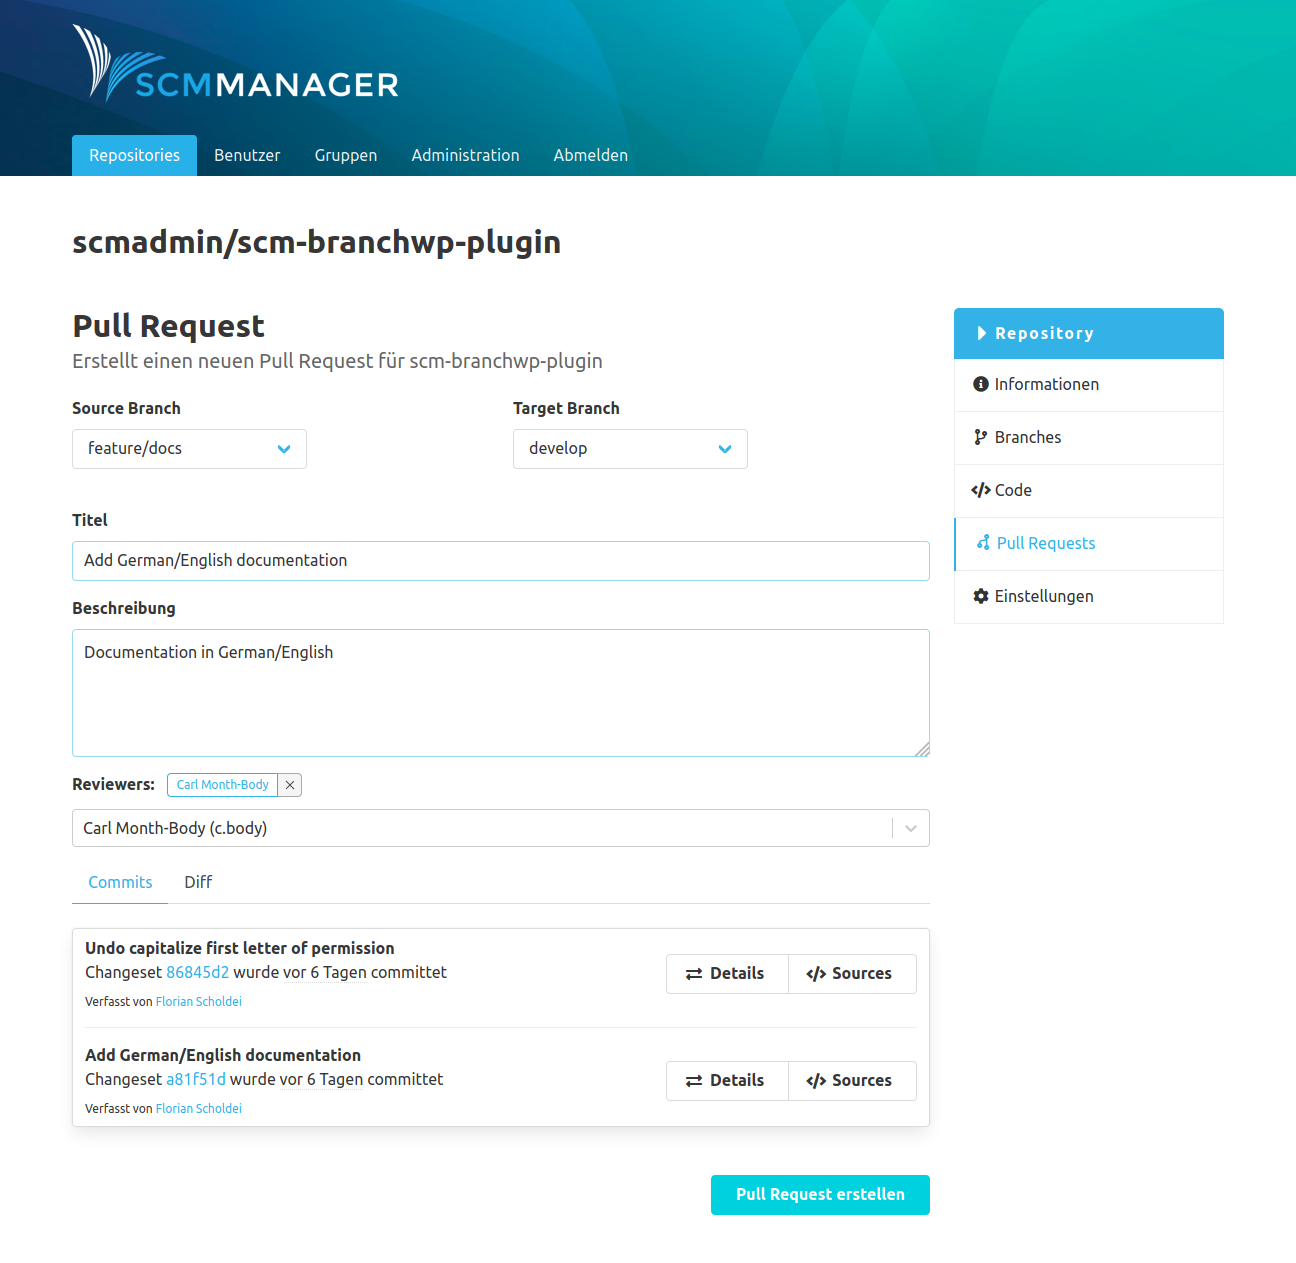
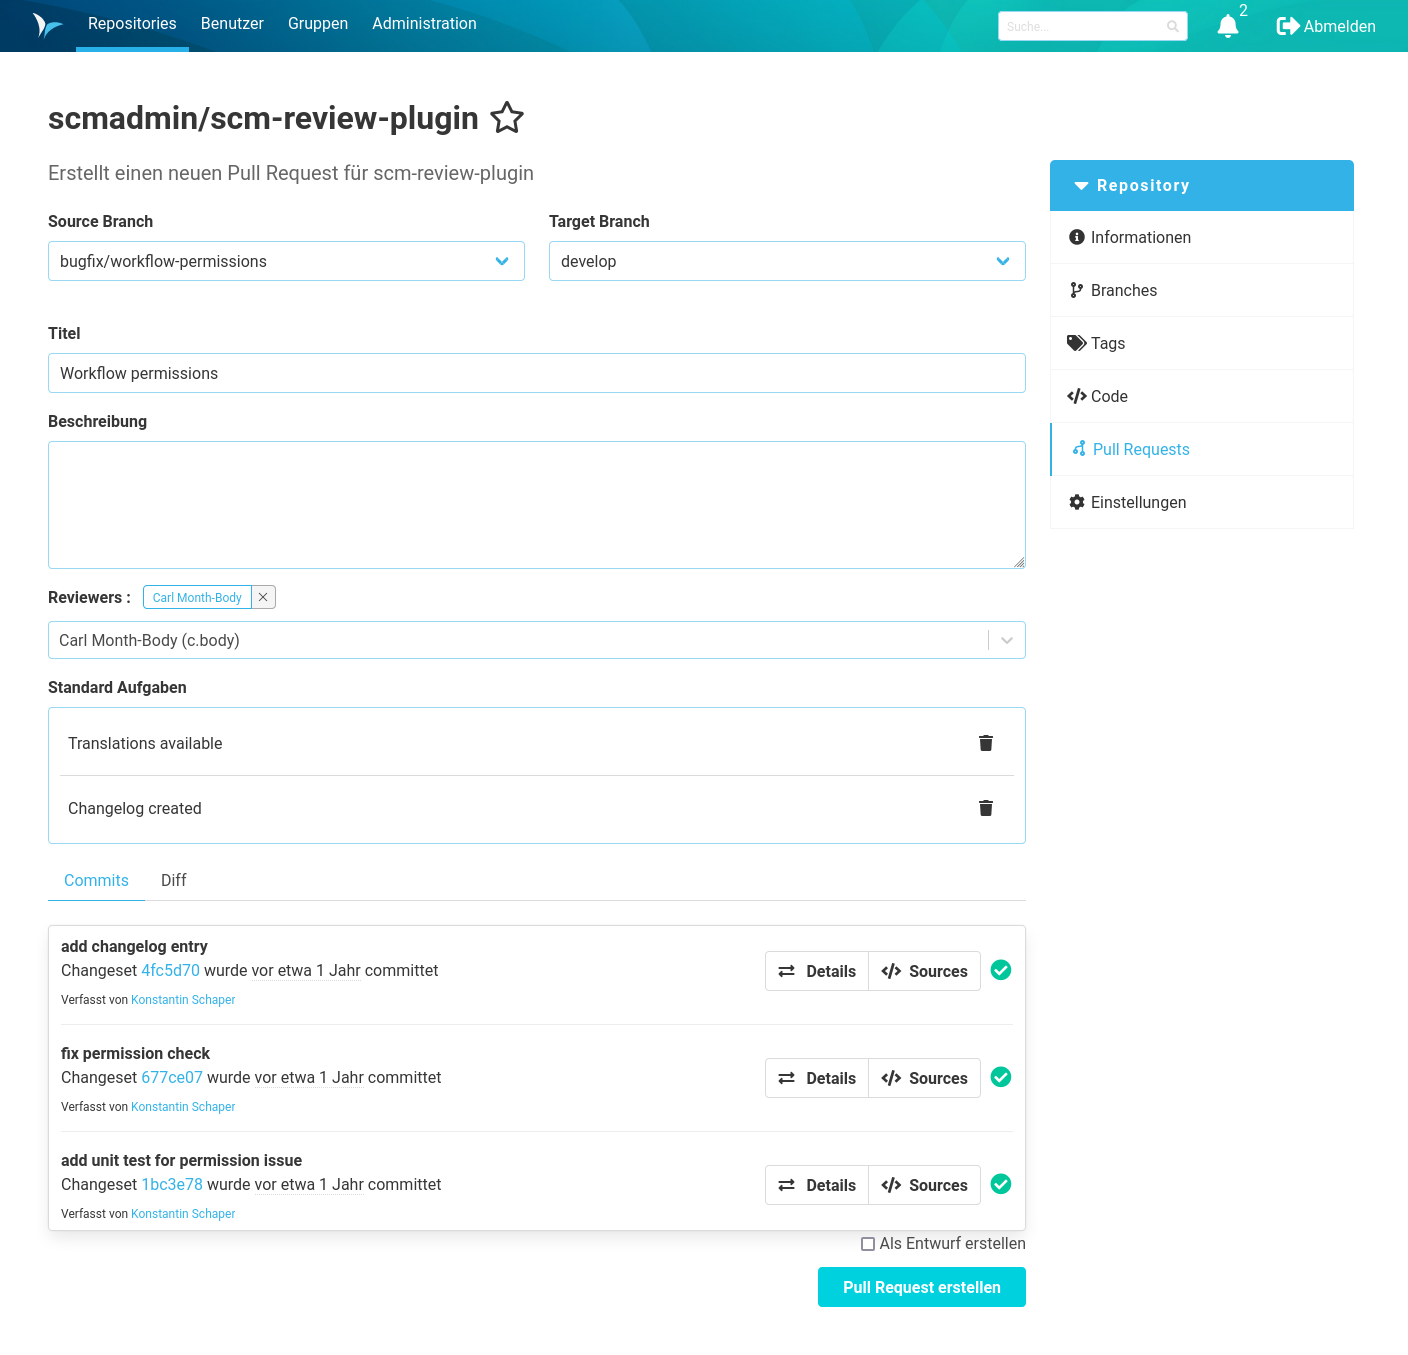
Enhance tasks
Add default task descriptions and improve translations

diff --git a/src/main/js/config/DefaultTaskEditor.tsx b/src/main/js/config/DefaultTaskEditor.tsx
@@ -23,8 +23,8 @@
  */
 
 import React, { FC, useState } from "react";
-import { useTranslation } from "react-i18next";
-import { AddButton, ButtonGroup, MarkdownView, Modal, Notification, Textarea } from "@scm-manager/ui-components";
+import { Trans, useTranslation } from "react-i18next";
+import { ButtonGroup, Level, MarkdownView, Modal, Notification, Textarea } from "@scm-manager/ui-components";
 import { CardList } from "@scm-manager/ui-layout";
 import { Menu } from "@scm-manager/ui-overlays";
 import { Button, Icon } from "@scm-manager/ui-buttons";
@@ -64,23 +64,15 @@ const DefaultTaskEditor: FC<DefaultTaskEditorProps> = ({ defaultTasks, addTask, 
   return (
     <>
       <div className="field">
-        <div className="is-flex is-justify-content-space-between label">
-          <label className="" htmlFor="default-tasks-cardlist">
-            {t("scm-review-plugin.config.defaultTasks.label")}
-          </label>
-          <AddButton
-            label={t("scm-review-plugin.config.defaultTasks.addTask")}
-            icon=""
-            action={() => {
-              setTask("");
-              setShowCreateModal(true);
-            }}
-          />
-        </div>
+        <label className="label" id="default-tasks-label">
+          {t("scm-review-plugin.config.defaultTasks.label")}
+        </label>
+        <p className="mb-2">{t("scm-review-plugin.config.defaultTasks.information")}</p>
         <CardWrapper className="control">
-          <StyledCardList id="default-tasks-cardlist" className="input p-2">
+          <StyledCardList aria-labelledby="default-tasks-label" className="input p-2">
             {defaultTasks.map(task => (
               <DefaultTaskEntry
+                key={task}
                 task={task}
                 removeTask={removeTask}
                 editTask={(task: string) => {
@@ -94,6 +86,19 @@ const DefaultTaskEditor: FC<DefaultTaskEditorProps> = ({ defaultTasks, addTask, 
             {t("scm-review-plugin.config.defaultTasks.noTasks")}
           </Notification>
         </CardWrapper>
+        <Level
+          right={
+            <Button
+              className="mt-2"
+              onClick={() => {
+                setTask("");
+                setShowCreateModal(true);
+              }}
+            >
+              {t("scm-review-plugin.config.defaultTasks.addTask")}
+            </Button>
+          }
+        />
       </div>
 
       {showCreateModal ? (
@@ -145,7 +150,22 @@ const DefaultTaskModal: FC<{
       active={true}
       body={
         <>
-          <label className="label">{t("scm-review-plugin.config.defaultTasks.modal.input")}</label>
+          <label className="label">
+            {mode === "CREATE"
+              ? t("scm-review-plugin.config.defaultTasks.modal.createInput")
+              : t("scm-review-plugin.config.defaultTasks.modal.editInput")}
+          </label>
+          <p className="mb-2">
+            <Trans
+              t={t}
+              i18nKey="scm-review-plugin.config.defaultTasks.modal.markdownInformation"
+              components={[
+                <a href="https://daringfireball.net/projects/markdown/syntax.text" target="_blank" rel="noreferrer">
+                  MarkDown Syntax
+                </a>
+              ]}
+            />
+          </p>
           <Textarea value={defaultTask} onChange={setDefaultTask} />
           <label className="label">{t("scm-review-plugin.config.defaultTasks.modal.preview")}</label>
           <MarkDownWrapper>

diff --git a/docs/de/create-pr/index.md b/docs/de/create-pr/index.md
@@ -2,7 +2,7 @@
 title: Pull Request erstellen
 ---
 Oberhalb der Pull Request Übersicht kann mit Klick auf die Schaltfläche ein neuer Pull Requests für das aktuelle Repository erstellt werden.
-Nach Auswahl des Source und Target Branchs muss ein Titel festgelegt werden. Zudem können eine Beschreibung (Markdown wird unterstützt) und Reviewer zugeordnet werden. Wurden Reviewer eingetragen, erhalten diese bei der Erstellung des Pull Requests eine E-Mail. 
+Nach Auswahl des Source und Target Branchs muss ein Titel festgelegt werden. Zudem können eine Beschreibung (Markdown wird unterstützt) und Reviewer zugeordnet werden. Wurden Reviewer eingetragen, erhalten diese bei der Erstellung des Pull Requests eine E-Mail. Unterhalb der Reviewer befindet sich eine Liste mit Standard Aufgaben, sofern diese in den Einstellungen angelegt wurden. Die Standard Aufgaben können für den Pull Request entfernt werden, wenn sie nicht benötigt werden.
 
 Im unteren Bereich können die Änderungen zwischen den gewählten Branches in Form von Commits und als Unterschiede auf Dateiebene (in Diff-Ansichten) geprüft werden. Jedem Pull Request wird eine einmalige, fortlaufende Nummer zugeordnet, über die er eindeutig im Kontext identifiziert werden kann.
 

diff --git a/docs/en/create-pr/index.md b/docs/en/create-pr/index.md
@@ -2,7 +2,7 @@
 title: Create a Pull Request
 ---
 A new pull request for the repository can be created with the button above the pull request overview. It is mandatory to provide the source and the target branch as well as a title. Optionally it is possible to provide a description (Markdown is supported) and to request specific reviewers.
-If reviewers were requested, they receive an e-mail once the pull request is created.
+If reviewers were requested, they receive an e-mail once the pull request is created. Underneath the reviewers a list of default tasks is displayed if they were added in the configuration. The default tasks can be removed for the pull request when they are not needed.
 
 The bottom of the page shows the differences between the two selected branches based on commits and on file level (diff viewer). Each pull request gets a serial number that can be used to clearly identify it in the context.
 
